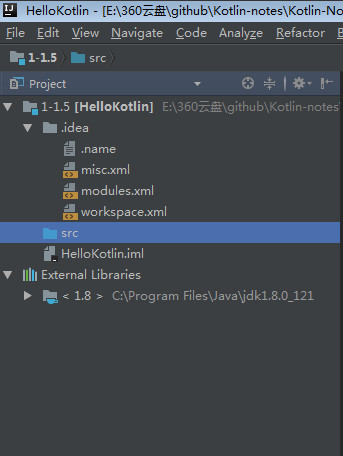
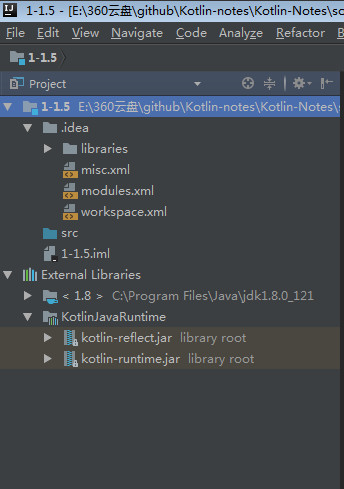
update 1.5

Changed region(s): [[0.0, 0.0, 1.0, 0.7675], [0.0583, 0.6447, 0.0875, 0.6754]]

diff --git a/source/1-1.5/src/org/sogrey/kotlin/demo_1_1_5.kt b/source/1-1.5/src/org/sogrey/kotlin/demo_1_1_5.kt
@@ -1,0 +1,9 @@
+package org.sogrey.kotlin
+
+/**
+ * Created by Sogrey on 2017/6/19.
+ */
+
+fun main(args: Array<String>) {
+    println("Hello Kotlin.")
+}

diff --git a/notes/1概述/1.5开发环境搭建（JetBrains IntelliJ IDEA）.md b/notes/1概述/1.5开发环境搭建（JetBrains IntelliJ IDEA）.md
@@ -38,7 +38,31 @@ finish，一个新的项目创建好了。
 
 ![KotlinModule](https://sogrey.github.io/Kotlin-Notes/notes/img/2017-06-19_102648.jpg)
 
+在`src`下新建一个包命名为`org.sogrey.kotlin`,在这个包下创建一个新的Kotlin文件：`New`->`Kotlin File/Class`
 
+![KotlinModule](https://sogrey.github.io/Kotlin-Notes/notes/img/2017-06-19_115018.jpg)
+
+新的Kotlin文件命名为`demo_1_1_5`,后缀名`.kt`会自动追加。
+
+![KotlinModule](https://sogrey.github.io/Kotlin-Notes/notes/img/2017-06-19_121426.jpg)
+
+来个Hello Kotlin，[源码]()：
+
+![KotlinModule](https://sogrey.github.io/Kotlin-Notes/notes/img/2017-06-19_121550.jpg)
+
+运行一下，右键`Run`:
+
+![KotlinModule](https://sogrey.github.io/Kotlin-Notes/notes/img/2017-06-19_121734.jpg)
+
+也可以直接点击Kotlin图标选择`Run`:
+
+![KotlinModule](https://sogrey.github.io/Kotlin-Notes/notes/img/2017-06-19_125356.jpg)
+
+万幸，我们如期看到如下结果：
+
+![KotlinModule](https://sogrey.github.io/Kotlin-Notes/notes/img/2017-06-19_125126.jpg)
+
+到此，我们已经成功地用 IntelliJ IDEA 运行 Kotlin项目。
 
 ---
 [[上一篇：1.4Kotlin JavaScript 概述](https://sogrey.github.io/Kotlin-Notes/notes/1%E6%A6%82%E8%BF%B0/1.4Kotlin%20JavaScript%20%E6%A6%82%E8%BF%B0)] [[返回目录](https://sogrey.github.io/Kotlin-Notes/)] [[下一篇：1.6开发环境搭建（Android studio）](https://sogrey.github.io/Kotlin-Notes/notes/1%E6%A6%82%E8%BF%B0/1.6%E5%BC%80%E5%8F%91%E7%8E%AF%E5%A2%83%E6%90%AD%E5%BB%BA%EF%BC%88Android%20studio%EF%BC%89)]
